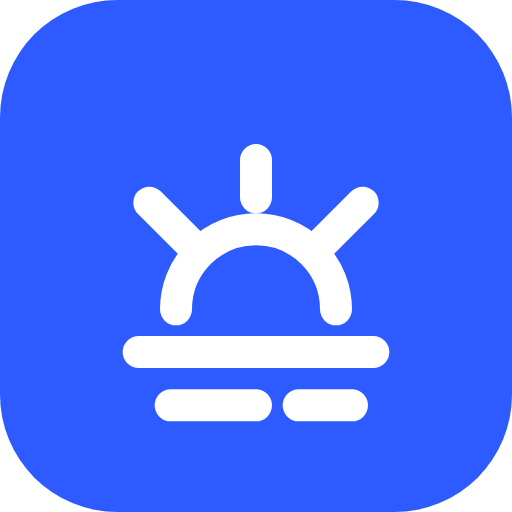
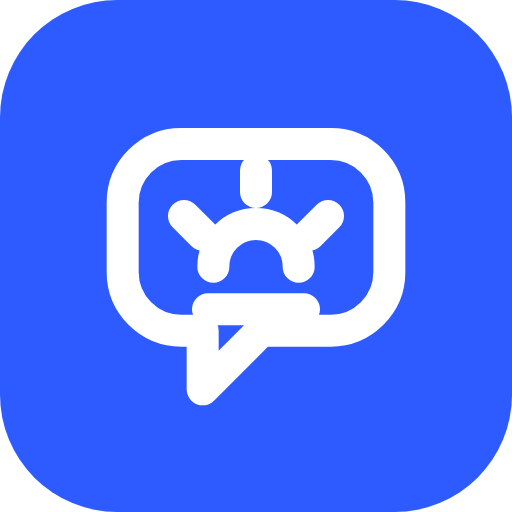
brand: 答岸新标「对话泡×日出岸线」全套重绘
- 新标：对话泡外廓（答=拍题即答）包裹半升旭日+岸线（岸=上岸），扁平单色
- 重绘 5 个 SVG（logo/glyph/glyph-white/lockup/lockup-mono）+ 全部 PNG 重导出
- 同步：H5 brand/daan.svg + kaogong-lockup.svg + logo.png、小程序 images/brand/icon.png、
  落地页 lp-assets + nav 内嵌标、favicon、og-card.png（gen_og_card.py 更新 draw_mark）
- README/VIS 标志释义更新；岸仔吉祥物沿用（名称无关）

Changed region(s): [[0.1875, 0.25, 0.8125, 0.8438]]

diff --git a/landing/index.html b/landing/index.html
@@ -159,7 +159,7 @@ footer{border-top:1px solid var(--line);padding:34px 0;color:var(--ink-3);font-s
 
 <nav>
   <div class="wrap nav-in">
-    <div class="logo"><svg viewBox="0 0 96 96" aria-hidden="true"><g fill="none" stroke="#fff" stroke-width="6" stroke-linecap="round"><path d="M48 37v-7"/><path d="M37 47l-9-9"/><path d="M59 47l9-9"/><path d="M33 58a15 15 0 0 1 30 0"/><path d="M26 66h44"/><path d="M32 76h16"/><path d="M56 76h10"/></g></svg></div>
+    <div class="logo"><svg viewBox="0 0 96 96" aria-hidden="true"><g fill="none" stroke="#fff" stroke-width="6" stroke-linecap="round"><path d="M34 27h28a11 11 0 0 1 11 11v13a11 11 0 0 1-11 11H49l-11 11V62h-4a11 11 0 0 1-11-11V38a11 11 0 0 1 11-11z"/><path d="M48 36v-4"/><path d="M38 44l-3.5-3.5"/><path d="M58 44l3.5-3.5"/><path d="M40 50a8 8 0 0 1 16 0"/><path d="M39 58h18"/></g></svg></div>
     <div class="brand-name">答岸</div>
     <div class="nav-links">
       <a href="#features">功能</a>

diff --git a/scripts/gen_og_card.py b/scripts/gen_og_card.py
@@ -26,22 +26,28 @@ def _seg(d: ImageDraw.ImageDraw, x0: float, y0: float, x1: float, y1: float, w: 
 
 
 def draw_mark(d: ImageDraw.ImageDraw, x: float, y: float, size: float, color) -> None:
-    """答岸「海岸日出」标，PIL 直绘（96 视窗坐标等比缩放）。"""
+    """答岸「对话泡×日出岸线」标，PIL 直绘（96 视窗坐标等比缩放）。"""
     s = size / 96.0
-    w = 6 * s
+    w = max(1, round(6 * s))
 
     def P(px: float, py: float) -> tuple[float, float]:
         return (x + px * s, y + py * s)
 
-    _seg(d, *P(48, 30), *P(48, 37), w, color)          # 顶光
-    _seg(d, *P(28, 38), *P(37, 47), w, color)          # 左光
-    _seg(d, *P(59, 47), *P(68, 38), w, color)          # 右光
-    ax0, ay0 = P(33, 58 - 15)
-    ax1, ay1 = P(63, 58 + 15)
-    d.arc((ax0, ay0, ax1, ay1), start=180, end=360, fill=color, width=round(w))  # 日弧
-    _seg(d, *P(26, 66), *P(70, 66), w, color)          # 岸线
-    _seg(d, *P(32, 76), *P(48, 76), w, color)          # 水纹
-    _seg(d, *P(56, 76), *P(66, 76), w, color)
+    # 对话泡外廓：圆角矩形 + 左下指向尾
+    bx0, by0 = P(23, 27)
+    bx1, by1 = P(73, 62)
+    rad = 11 * s
+    d.rounded_rectangle((bx0, by0, bx1, by1), radius=rad, outline=color, width=w)
+    t0, t1, t2 = P(49, 62), P(38, 73), P(38, 62)
+    d.line([t0, t1, t2], fill=color, width=w, joint="curve")
+    # 泡内日出：三道光 + 日弧 + 岸线
+    _seg(d, *P(48, 32), *P(48, 36), w, color)
+    _seg(d, *P(34.5, 40.5), *P(38, 44), w, color)
+    _seg(d, *P(58, 44), *P(61.5, 40.5), w, color)
+    ax0, ay0 = P(40, 50 - 8)
+    ax1, ay1 = P(56, 50 + 8)
+    d.arc((ax0, ay0, ax1, ay1), start=180, end=360, fill=color, width=w)
+    _seg(d, *P(39, 58), *P(57, 58), w, color)
 
 
 def main() -> None:

diff --git a/docs/design-system/VIS.md b/docs/design-system/VIS.md
@@ -13,7 +13,7 @@
 
 ## 1. 标志系统
 
-**图形标「海岸日出」**：半升旭日 + 岸线水纹，扁平单色几何（品牌蓝底白形 / 单色白底两种）。寓意「上岸的一刻」。文件：`brand/daan.svg`、`brand/glyph.svg`、`brand/lockup.svg`、`brand/icon-*.png`。
+**图形标「对话泡×日出岸线」**：对话泡外廓（「答」=拍题即答）包裹半升旭日 + 岸线（「岸」=上岸），扁平单色几何（品牌蓝底白形 / 单色白底两种）。文件：`brand/logo.svg`、`brand/glyph.svg`、`brand/lockup.svg`、`brand/icon-*.png`。
 
 **字标**：「答岸」三字，字重 700；英文标 `DAAN` 全大写、+0.08em 字距、12px 级。
 
@@ -152,7 +152,7 @@
 
 ## 9. 物料规范
 
-- **favicon/app icon**：`brand/icon-*.png`（144–1024），日出标白形蓝底，无文字。
+- **favicon/app icon**：`brand/icon-*.png`（144–1024），泡形日出标白形蓝底，无文字。
 - **截图壳**：白底 + hairline + 8px padding，r.lg 比例圆角——禁黑色手机壳 mockup。
 - **OG/分享卡**：`scripts/gen_og_card.py` 生成，纯色底+白砖蓝标+标题，1200×630。
 - **PDF 导出**：页眉 logo+卷名，水印「答岸」，答案区用 ok/bad 色。

diff --git a/brand/README.md b/brand/README.md
@@ -1,6 +1,6 @@
 # 答岸 品牌资产
 
-标识含义：**海岸日出**——半升旭日 + 三道光芒 + 岸线与两道水纹，「上岸的一刻」。扁平、单色、几何，与产品 VIS 同源。
+标识含义：**对话泡 × 日出岸线**——「答」=拍题即答的对话泡外廓（左下指向尾），泡内「岸」=半升旭日 + 三道光芒 + 岸线。扁平、单色、几何，与产品 VIS 同源。
 
 ## 文件
 
